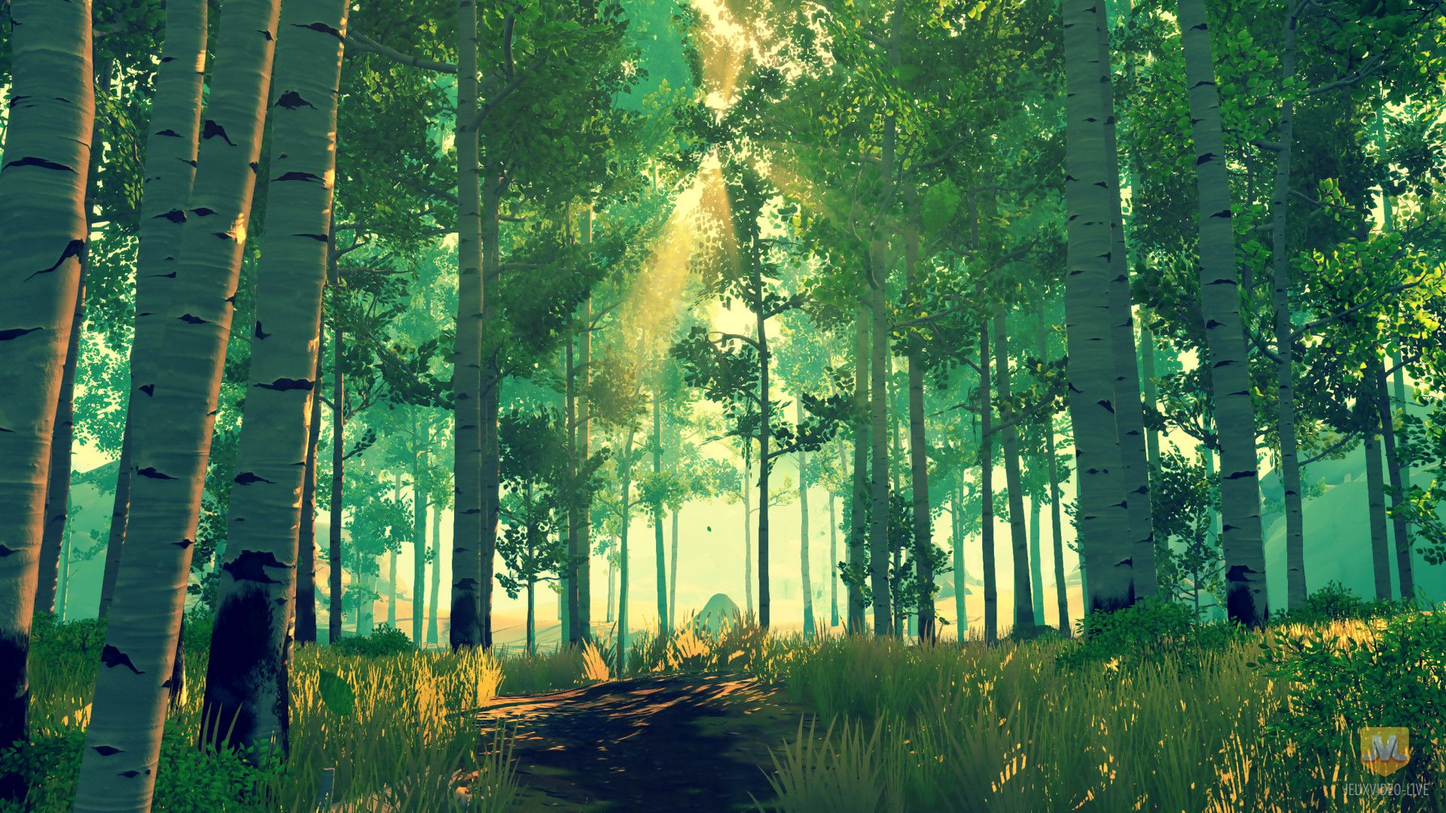
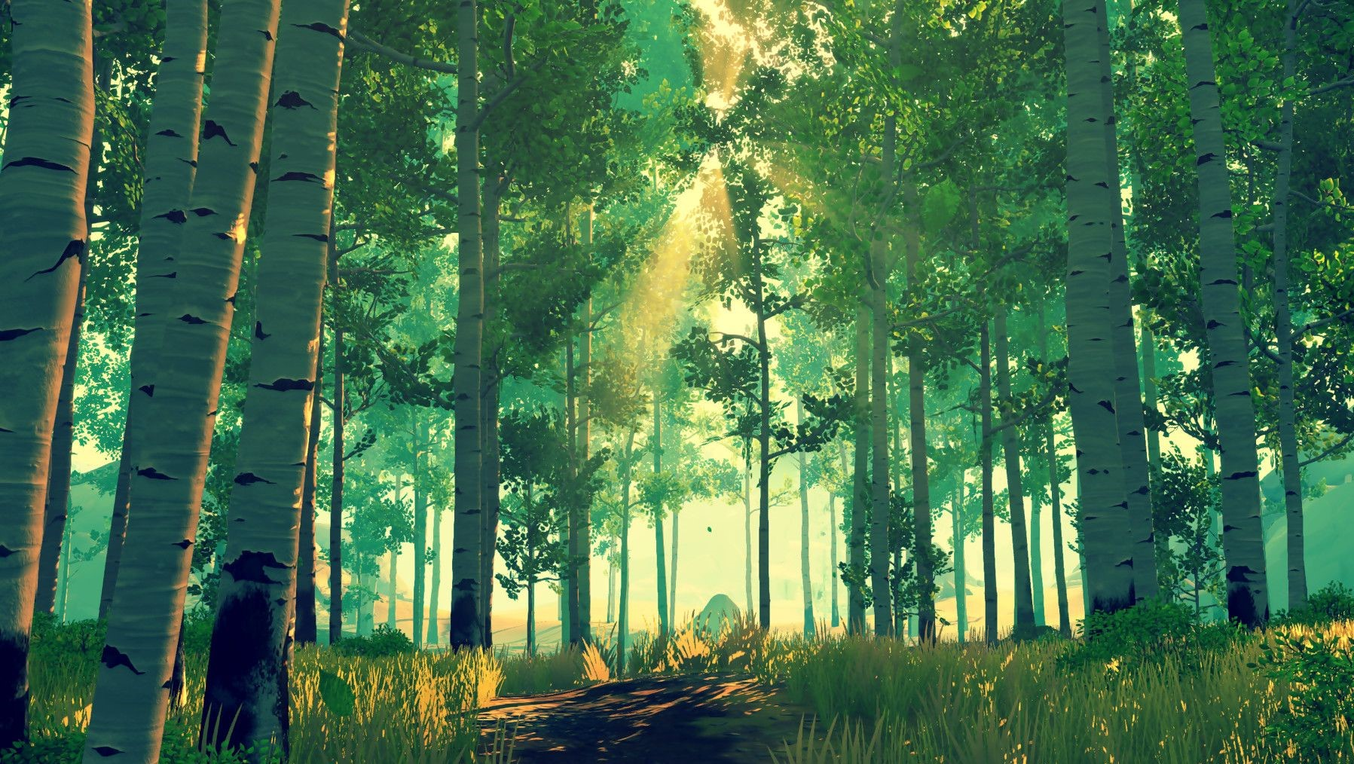
accueil

diff --git a/formation-angular/src/app/accueil/accueil.component.html b/formation-angular/src/app/accueil/accueil.component.html
@@ -4,15 +4,31 @@
   <div id="carouselExampleControls" class="carousel slide" data-ride="carousel">
     <div class="carousel-inner">
       <div class="carousel-item active">
-
-            <img class="d-block w-100 " src="assets/foretessai1.jpg" alt="First slide">
-
+        <img class="d-block w-100 " src="assets/foret2.jpg" alt="First slide">
+        <div class="carousel-caption">
+          <h1>FAXs : </h1>
+          <h3>
+            est un jeu RPG, où le joueur est immergé au milieu de la fôret dans une intrigue palpitante.
+            Il devra résoudre quêtes, combats et mystères afin de parvenir à son but. Pour cela il pourra compter sur diverses objets ainsi que de précieux conseils.
+          </h3>
+        </div>
     </div>
       <div class="carousel-item">
-        <img class="d-block w-100" src="assets/montagneProchainement.jpg" alt="Second slide">
+        <img class="d-block w-100" src="assets/montagne.jpg" alt="Second slide">
+        <div class="carousel-caption">
+          <h1>FAXs : expansion Montagne </h1>
+          <h3>
+            Prochainement, le joueur pourra continuer sa quête dans un nouvel environnement
+          </h3>
+        </div>
       </div>
       <div class="carousel-item">
-        <img class="d-block w-100" src="assets/desertProchainement.jpg" alt="Third slide">
+        <img class="d-block w-100" src="assets/desert.jpg" alt="Third slide">
+      <div class="carousel-caption">
+        <h1>FAXs : expansion Désert </h1>
+        <h3>
+          Prochainement, le joueur pourra continuer sa quête dans un nouvel environnement
+        </h3>
       </div>
     </div>
     <a class="carousel-control-prev" href="#carouselExampleControls" role="button" data-slide="prev">

diff --git a/formation-angular/src/app/accueil/accueil.component.scss b/formation-angular/src/app/accueil/accueil.component.scss
@@ -7,4 +7,16 @@
 d-block {
 
   text-align: center;
+
+}
+.carousel-caption {
+  position: absolute;
+  right: 15%;
+  bottom: 45%;
+  left: 15%;
+  z-index: 10;
+  padding-top: 20px;
+  padding-bottom: 20px;
+  color: #fff;
+  text-align: center;
 }
